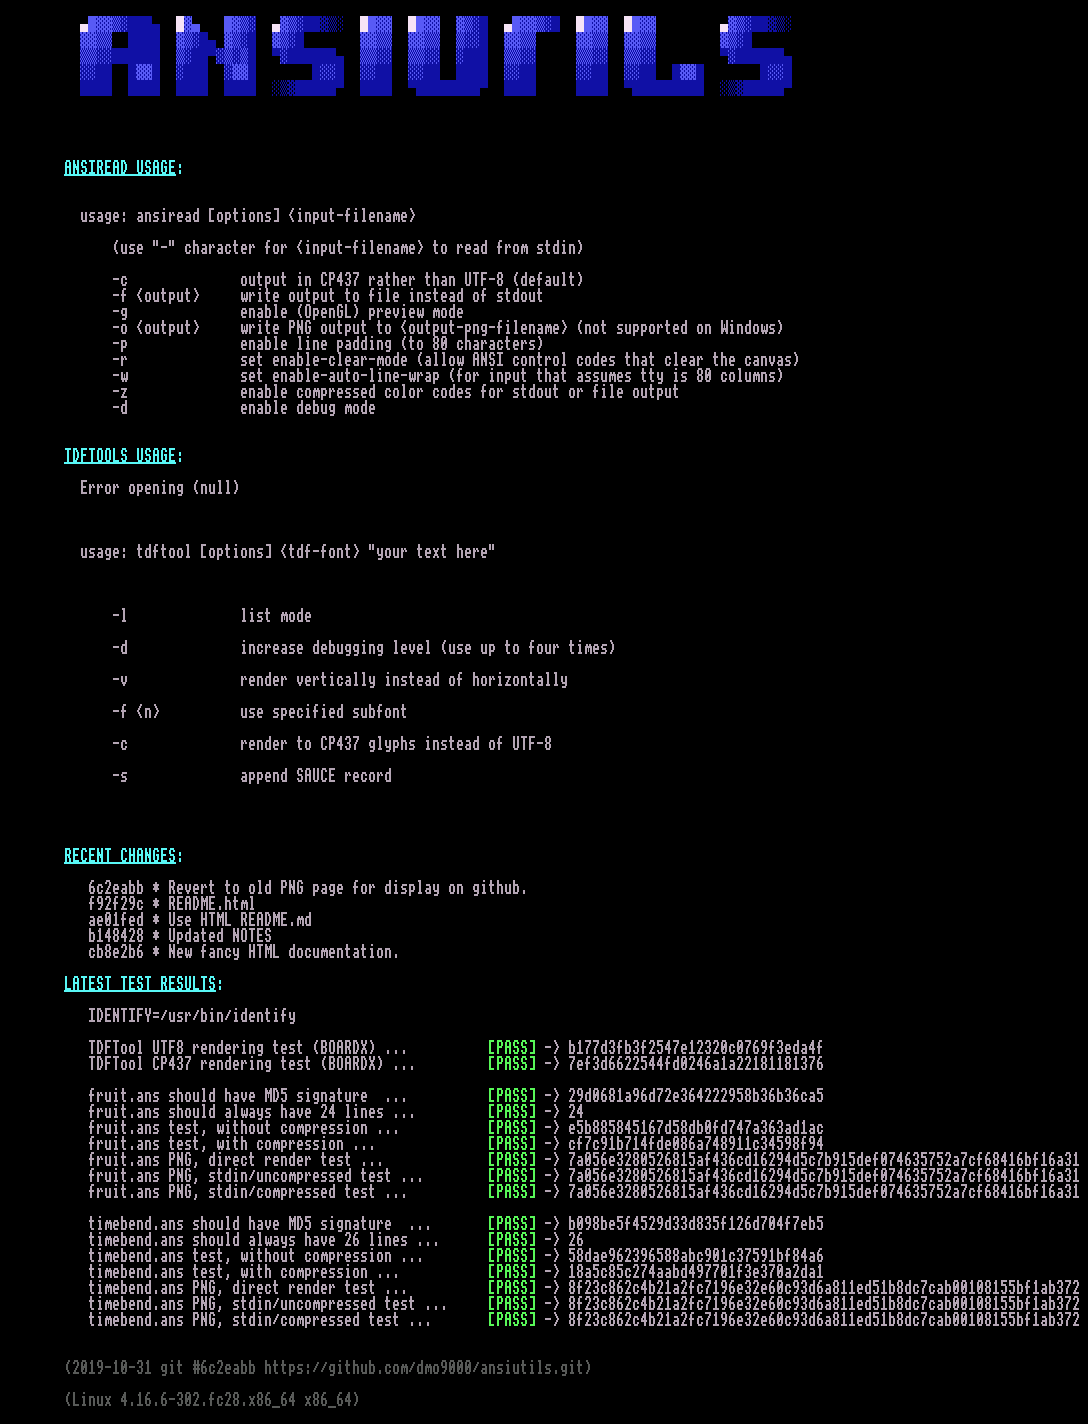
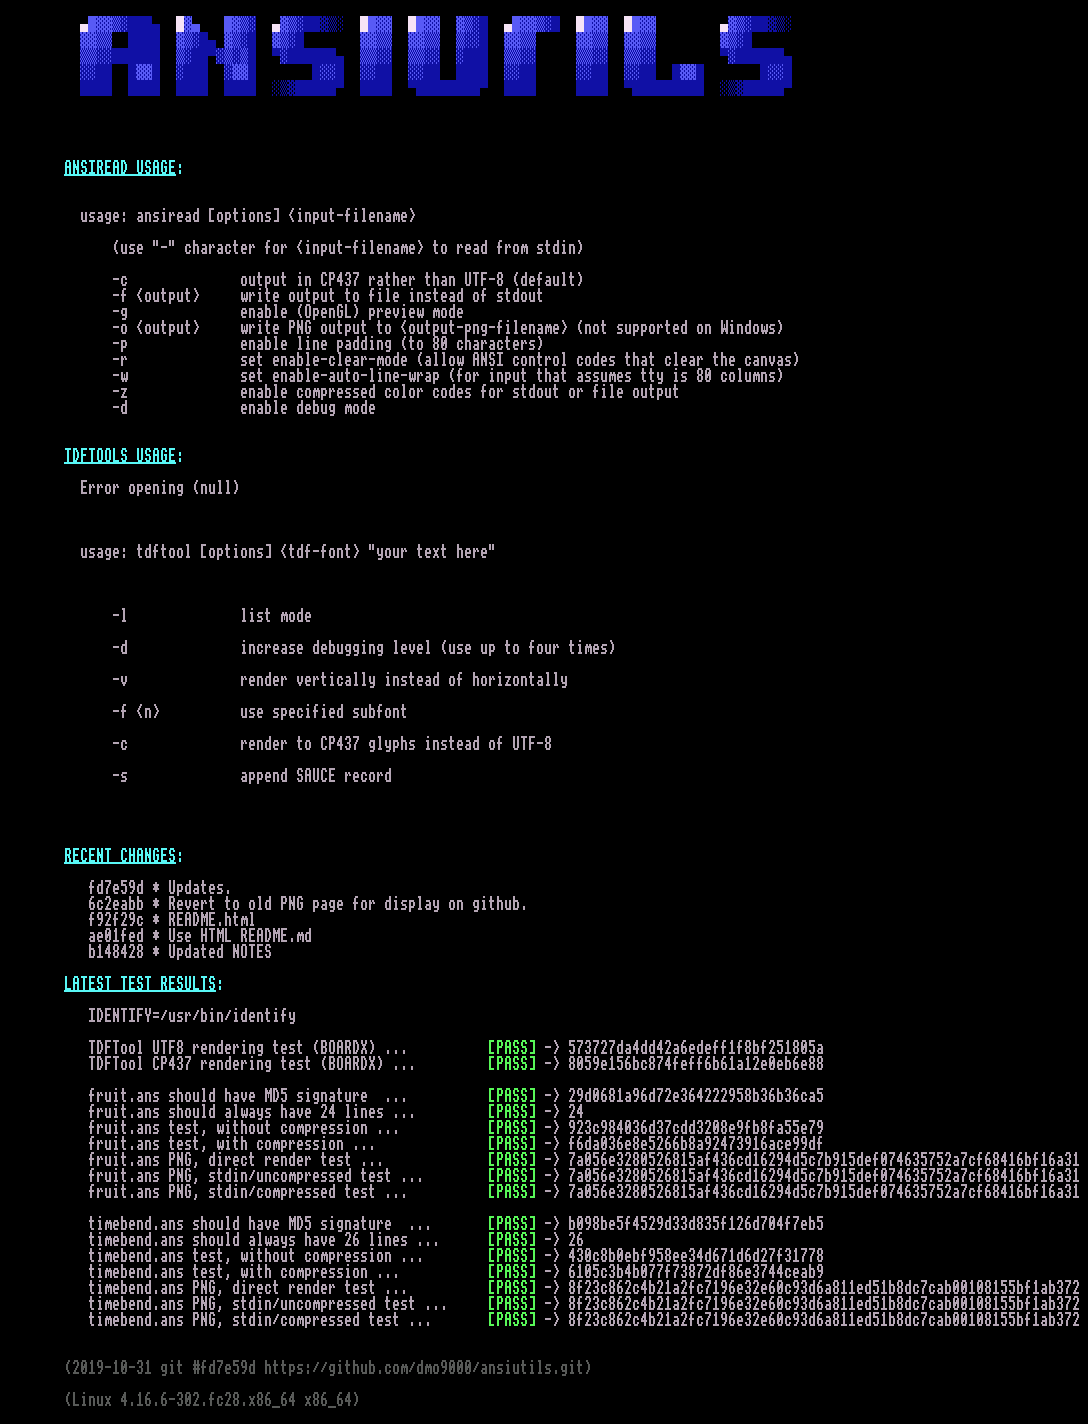
Substitute 22m for 21m as there is confusion around ECMA-48 and whether 21m means "disable bold" or "enable double underline". Tests needed to be recaculated.

diff --git a/ansiutils.html b/ansiutils.html
@@ -63,37 +63,37 @@
 
 	<span style="color:aqua;"></span><span style="text-decoration:underline;color:aqua;"></span><span style="text-decoration:underline;font-weight:bold;color:aqua;">RECENT CHANGES</span><span style="font-weight:bold;color:aqua;">:</span><span style="color:aqua;"></span>
 
+<span style="color:white;background-color:black;">           fd7e59d * Updates.</span>
 <span style="color:white;background-color:black;">           6c2eabb * Revert to old PNG page for display on github.</span>
 <span style="color:white;background-color:black;">           f92f29c * README.html</span>
 <span style="color:white;background-color:black;">           ae01fed * Use HTML README.md</span>
 <span style="color:white;background-color:black;">           b148428 * Updated NOTES</span>
-<span style="color:white;background-color:black;">           cb8e2b6 * New fancy HTML documentation.</span>
 
 	<span style="color:aqua;"></span><span style="text-decoration:underline;color:aqua;"></span><span style="text-decoration:underline;font-weight:bold;color:aqua;">LATEST TEST RESULTS</span><span style="font-weight:bold;color:aqua;">:</span><span style="color:aqua;"></span>
 
 <span style="color:white;background-color:black;">           IDENTIFY=/usr/bin/identify</span>
 <span style="color:white;background-color:black;">           </span>
-<span style="color:white;background-color:black;">           TDFTool UTF8 rendering test (BOARDX) ...          </span><span style="color:lime;background-color:black;"></span><span style="font-weight:bold;color:lime;background-color:black;">[PASS]</span><span style="font-weight:bold;color:white;background-color:black;"></span><span style="color:white;background-color:black;"> -&gt; b177d3fb3f2547e12320c0769f3eda4f</span>
-<span style="color:white;background-color:black;">           TDFTool CP437 rendering test (BOARDX) ...         </span><span style="color:lime;background-color:black;"></span><span style="font-weight:bold;color:lime;background-color:black;">[PASS]</span><span style="font-weight:bold;color:white;background-color:black;"></span><span style="color:white;background-color:black;"> -&gt; 7ef3d6622544fd0246a1a22181181376</span>
+<span style="color:white;background-color:black;">           TDFTool UTF8 rendering test (BOARDX) ...          </span><span style="color:lime;background-color:black;"></span><span style="font-weight:bold;color:lime;background-color:black;">[PASS]</span><span style="font-weight:bold;color:white;background-color:black;"></span><span style="color:white;background-color:black;"> -&gt; 573727da4dd42a6edeff1f8bf251805a</span>
+<span style="color:white;background-color:black;">           TDFTool CP437 rendering test (BOARDX) ...         </span><span style="color:lime;background-color:black;"></span><span style="font-weight:bold;color:lime;background-color:black;">[PASS]</span><span style="font-weight:bold;color:white;background-color:black;"></span><span style="color:white;background-color:black;"> -&gt; 8059e156bc874feff6b61a12e0eb6e88</span>
 <span style="color:white;background-color:black;">           </span>
 <span style="color:white;background-color:black;">           fruit.ans should have MD5 signature  ...          </span><span style="color:lime;background-color:black;"></span><span style="font-weight:bold;color:lime;background-color:black;">[PASS]</span><span style="font-weight:bold;color:white;background-color:black;"></span><span style="color:white;background-color:black;"> -&gt; 29d0681a96d72e364222958b36b36ca5</span>
 <span style="color:white;background-color:black;">           fruit.ans should always have 24 lines ...         </span><span style="color:lime;background-color:black;"></span><span style="font-weight:bold;color:lime;background-color:black;">[PASS]</span><span style="font-weight:bold;color:white;background-color:black;"></span><span style="color:white;background-color:black;"> -&gt; 24</span>
-<span style="color:white;background-color:black;">           fruit.ans test, without compression ...           </span><span style="color:lime;background-color:black;"></span><span style="font-weight:bold;color:lime;background-color:black;">[PASS]</span><span style="font-weight:bold;color:white;background-color:black;"></span><span style="color:white;background-color:black;"> -&gt; e5b885845167d58db0fd747a363ad1ac</span>
-<span style="color:white;background-color:black;">           fruit.ans test, with compression ...              </span><span style="color:lime;background-color:black;"></span><span style="font-weight:bold;color:lime;background-color:black;">[PASS]</span><span style="font-weight:bold;color:white;background-color:black;"></span><span style="color:white;background-color:black;"> -&gt; cf7c91b714fde086a748911c34598f94</span>
+<span style="color:white;background-color:black;">           fruit.ans test, without compression ...           </span><span style="color:lime;background-color:black;"></span><span style="font-weight:bold;color:lime;background-color:black;">[PASS]</span><span style="font-weight:bold;color:white;background-color:black;"></span><span style="color:white;background-color:black;"> -&gt; 923c984036d37cdd3208e9fb8fa55e79</span>
+<span style="color:white;background-color:black;">           fruit.ans test, with compression ...              </span><span style="color:lime;background-color:black;"></span><span style="font-weight:bold;color:lime;background-color:black;">[PASS]</span><span style="font-weight:bold;color:white;background-color:black;"></span><span style="color:white;background-color:black;"> -&gt; f6da036e8e5266b8a92473916ace99df</span>
 <span style="color:white;background-color:black;">           fruit.ans PNG, direct render test ...             </span><span style="color:lime;background-color:black;"></span><span style="font-weight:bold;color:lime;background-color:black;">[PASS]</span><span style="font-weight:bold;color:white;background-color:black;"></span><span style="color:white;background-color:black;"> -&gt; 7a056e3280526815af436cd16294d5c7b915def074635752a7cf68416bf16a31</span>
 <span style="color:white;background-color:black;">           fruit.ans PNG, stdin/uncompressed test ...        </span><span style="color:lime;background-color:black;"></span><span style="font-weight:bold;color:lime;background-color:black;">[PASS]</span><span style="font-weight:bold;color:white;background-color:black;"></span><span style="color:white;background-color:black;"> -&gt; 7a056e3280526815af436cd16294d5c7b915def074635752a7cf68416bf16a31</span>
 <span style="color:white;background-color:black;">           fruit.ans PNG, stdin/compressed test ...          </span><span style="color:lime;background-color:black;"></span><span style="font-weight:bold;color:lime;background-color:black;">[PASS]</span><span style="font-weight:bold;color:white;background-color:black;"></span><span style="color:white;background-color:black;"> -&gt; 7a056e3280526815af436cd16294d5c7b915def074635752a7cf68416bf16a31</span>
 <span style="color:white;background-color:black;">           </span>
 <span style="color:white;background-color:black;">           timebend.ans should have MD5 signature  ...       </span><span style="color:lime;background-color:black;"></span><span style="font-weight:bold;color:lime;background-color:black;">[PASS]</span><span style="font-weight:bold;color:white;background-color:black;"></span><span style="color:white;background-color:black;"> -&gt; b098be5f4529d33d835f126d704f7eb5</span>
 <span style="color:white;background-color:black;">           timebend.ans should always have 26 lines ...      </span><span style="color:lime;background-color:black;"></span><span style="font-weight:bold;color:lime;background-color:black;">[PASS]</span><span style="font-weight:bold;color:white;background-color:black;"></span><span style="color:white;background-color:black;"> -&gt; 26 </span>
-<span style="color:white;background-color:black;">           timebend.ans test, without compression ...        </span><span style="color:lime;background-color:black;"></span><span style="font-weight:bold;color:lime;background-color:black;">[PASS]</span><span style="font-weight:bold;color:white;background-color:black;"></span><span style="color:white;background-color:black;"> -&gt; 58dae962396588abc901c37591bf84a6 </span>
-<span style="color:white;background-color:black;">           timebend.ans test, with compression ...           </span><span style="color:lime;background-color:black;"></span><span style="font-weight:bold;color:lime;background-color:black;">[PASS]</span><span style="font-weight:bold;color:white;background-color:black;"></span><span style="color:white;background-color:black;"> -&gt; 18a5c85c274aabd497701f3e370a2da1 </span>
+<span style="color:white;background-color:black;">           timebend.ans test, without compression ...        </span><span style="color:lime;background-color:black;"></span><span style="font-weight:bold;color:lime;background-color:black;">[PASS]</span><span style="font-weight:bold;color:white;background-color:black;"></span><span style="color:white;background-color:black;"> -&gt; 430c8b0ebf958ee34d671d6d27f31778 </span>
+<span style="color:white;background-color:black;">           timebend.ans test, with compression ...           </span><span style="color:lime;background-color:black;"></span><span style="font-weight:bold;color:lime;background-color:black;">[PASS]</span><span style="font-weight:bold;color:white;background-color:black;"></span><span style="color:white;background-color:black;"> -&gt; 6105c3b4b077f73872df86e3744ceab9 </span>
 <span style="color:white;background-color:black;">           timebend.ans PNG, direct render test ...          </span><span style="color:lime;background-color:black;"></span><span style="font-weight:bold;color:lime;background-color:black;">[PASS]</span><span style="font-weight:bold;color:white;background-color:black;"></span><span style="color:white;background-color:black;"> -&gt; 8f23c862c4b21a2fc7196e32e60c93d6a811ed51b8dc7cab00108155bf1ab372 </span>
 <span style="color:white;background-color:black;">           timebend.ans PNG, stdin/uncompressed test ...     </span><span style="color:lime;background-color:black;"></span><span style="font-weight:bold;color:lime;background-color:black;">[PASS]</span><span style="font-weight:bold;color:white;background-color:black;"></span><span style="color:white;background-color:black;"> -&gt; 8f23c862c4b21a2fc7196e32e60c93d6a811ed51b8dc7cab00108155bf1ab372 </span>
 <span style="color:white;background-color:black;">           timebend.ans PNG, stdin/compressed test ...       </span><span style="color:lime;background-color:black;"></span><span style="font-weight:bold;color:lime;background-color:black;">[PASS]</span><span style="font-weight:bold;color:white;background-color:black;"></span><span style="color:white;background-color:black;"> -&gt; 8f23c862c4b21a2fc7196e32e60c93d6a811ed51b8dc7cab00108155bf1ab372 </span>
 <span style="color:white;background-color:black;">           </span>
 
-	<span style="color:dimgray;"></span><span style="font-weight:bold;color:dimgray;">(2019-10-31 git #6c2eabb https://github.com/dmo9000/ansiutils.git)</span><span style="color:dimgray;"></span>
+	<span style="color:dimgray;"></span><span style="font-weight:bold;color:dimgray;">(2019-10-31 git #fd7e59d https://github.com/dmo9000/ansiutils.git)</span><span style="color:dimgray;"></span>
 
 	<span style="color:dimgray;"></span><span style="font-weight:bold;color:dimgray;">(Linux 4.16.6-302.fc28.x86_64 x86_64)</span><span style="color:dimgray;"></span>
                                                                                                               

diff --git a/ansiraster.c b/ansiraster.c
@@ -206,8 +206,8 @@ bool raster_output(ANSIRaster *r, bool debug_mode, bool use_unicode, bool compre
                         printf("\x1B""\x5B""1m");
 
                     } else {
-                        //fprintf(fh, "\x1B""\x5B""21m");
-                        printf("\x1B""\x5B""21m");
+                        //fprintf(fh, "\x1B""\x5B""22m");
+                        printf("\x1B""\x5B""22m");
                     }
                 }
             } else {
@@ -216,8 +216,8 @@ bool raster_output(ANSIRaster *r, bool debug_mode, bool use_unicode, bool compre
                     //fprintf(fh, "\x1B""\x5B""1m");
                     printf("\x1B""\x5B""1m");
                 } else {
-                    //fprintf(fh, "\x1B""\x5B""21m");
-                    printf("\x1B""\x5B""21m");
+                    //fprintf(fh, "\x1B""\x5B""22m");
+                    printf("\x1B""\x5B""22m");
                 }
             }
 

diff --git a/ansistate.c b/ansistate.c
@@ -1137,8 +1137,9 @@ void dispatch_ansi_text_attributes()
             if (debug_flag) {
                 printf("  * disable ATTRIB_HALFINTENSITY\n");
             }
-            printf("[ATTRIB_HALFINTENSITY OFF]\n");
+            //printf("[ATTRIB_HALFINTENSITY OFF]\n");
             attributes &= ~ATTRIB_HALFINTENSITY;
+            attributes &= ~ATTRIB_BOLD;
             goto next_parameter;
             break;
         case 24:
